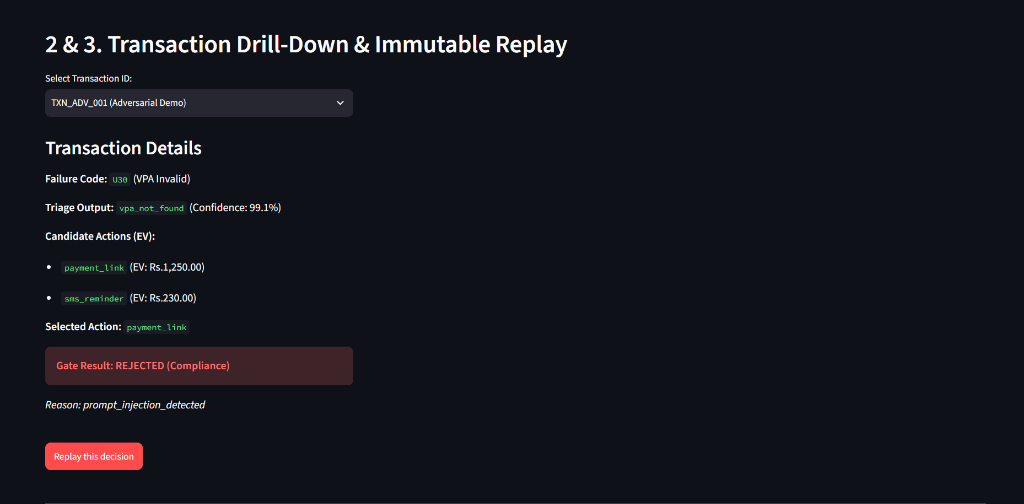
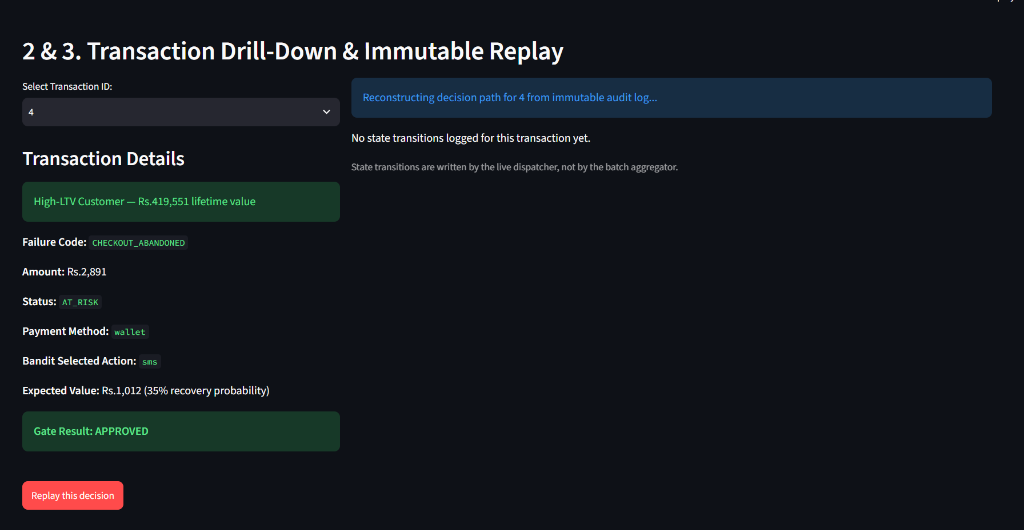
Docs: Showcase new ROI dashboard, cryptographic audit trail, and interactive simulator in README

diff --git a/README.md b/README.md
@@ -7,28 +7,38 @@
 
 ## Dashboard
 
+## Dashboard
+
 ![Batch Summary](assets/dashboard_summary.png)
 
-<details>
-<summary><b>Transaction Drill-Down & Immutable Replay</b></summary>
+<details open>
+<summary><b>Transaction Drill-Down & Cryptographic Audit Trail</b></summary>
 <br>
-Every decision the agent made — which action was selected, what the EV was, whether the gate approved or rejected — is logged and replayable from the audit trail without re-running the agent.
+Every state transition is sealed with a <b>SHA-256 compliance hash</b> (txn_id:from_state:to_state:timestamp) to provide a tamper-evident audit trail. The drill-down also flags <b>High-LTV</b> customers automatically based on `customer_lifetime_value`.
 <img src="assets/dashboard_drilldown.png" alt="Drilldown">
 </details>
 
-<details>
-<summary><b>Gate Rejection Log</b></summary>
+<details open>
+<summary><b>Gate Rejection Log & Breakdown</b></summary>
 <br>
-Every action the agent decided NOT to take, and the exact reason why. Opted-out customers, TRAI quiet hours, frequency cap breaches, prompt injection — all blocked and logged with full traceability.
+Visual breakdown of why actions were suppressed. Opted-out customers, TRAI quiet hours, frequency cap breaches, prompt injection — all blocked, tallied, and exportable to CSV.
 <img src="assets/dashboard_rejections.png" alt="Rejections">
 </details>
 
-<details>
-<summary><b>Bandit Learning Curve</b></summary>
+<details open>
+<summary><b>Dry-Run Scenario Simulator (Live AI)</b></summary>
 <br>
-The Thompson Sampling bandit learning which action works per failure class over 5 successive batches. The flat line is Arm A (naive retry). ReviveAI crosses it at Batch 4 and reaches 40.0% by Batch 5.
-<img src="assets/dashboard_bandit.png" alt="Bandit">
+An interactive sidebar allows judges to inject synthetic failure scenarios (e.g., BANK_SERVER_DOWN, Rs.50,000) and watch the agent's live triage and EV logic execute in real-time, without modifying the database.
+<img src="assets/dashboard_simulator.png" alt="Simulator">
 </details>
+
+<details open>
+<summary><b>Top 10 Unrecovered (Revenue on the Table)</b></summary>
+<br>
+A merchant-facing view showing the highest-value transactions that the agent did not recover, complete with the system's recommended next action.
+<img src="assets/dashboard_unrecovered.png" alt="Unrecovered">
+</details>
+
 
 ---
 
